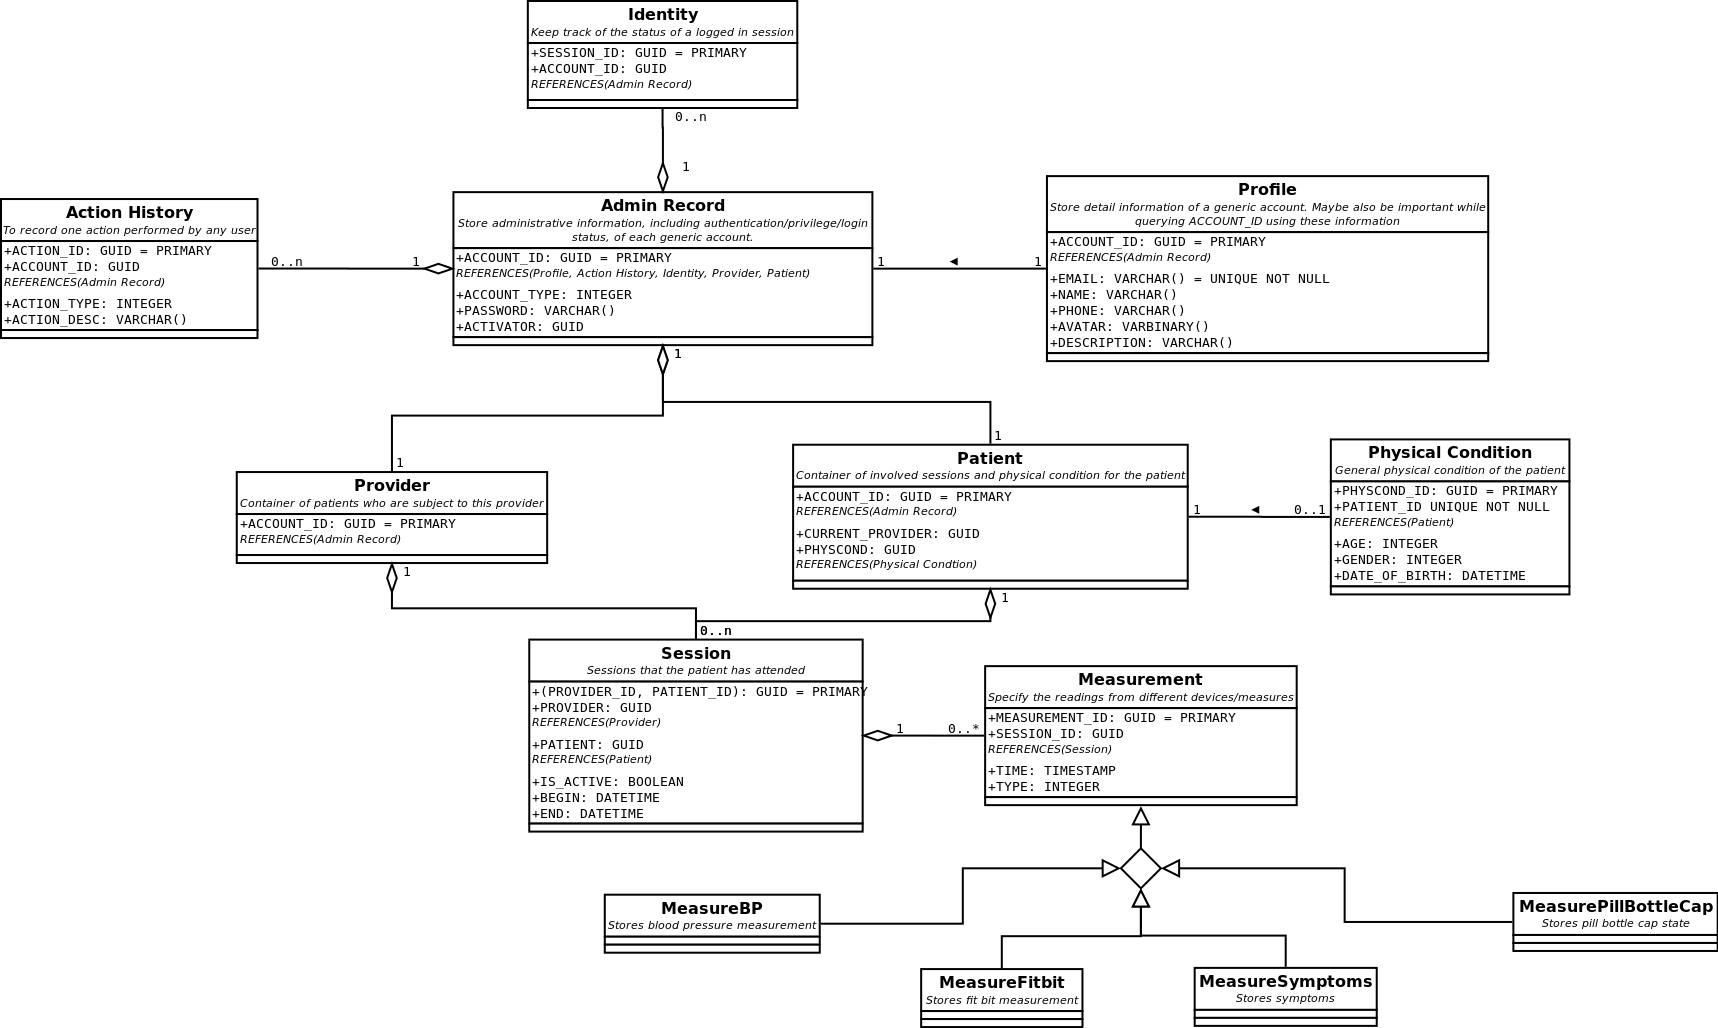
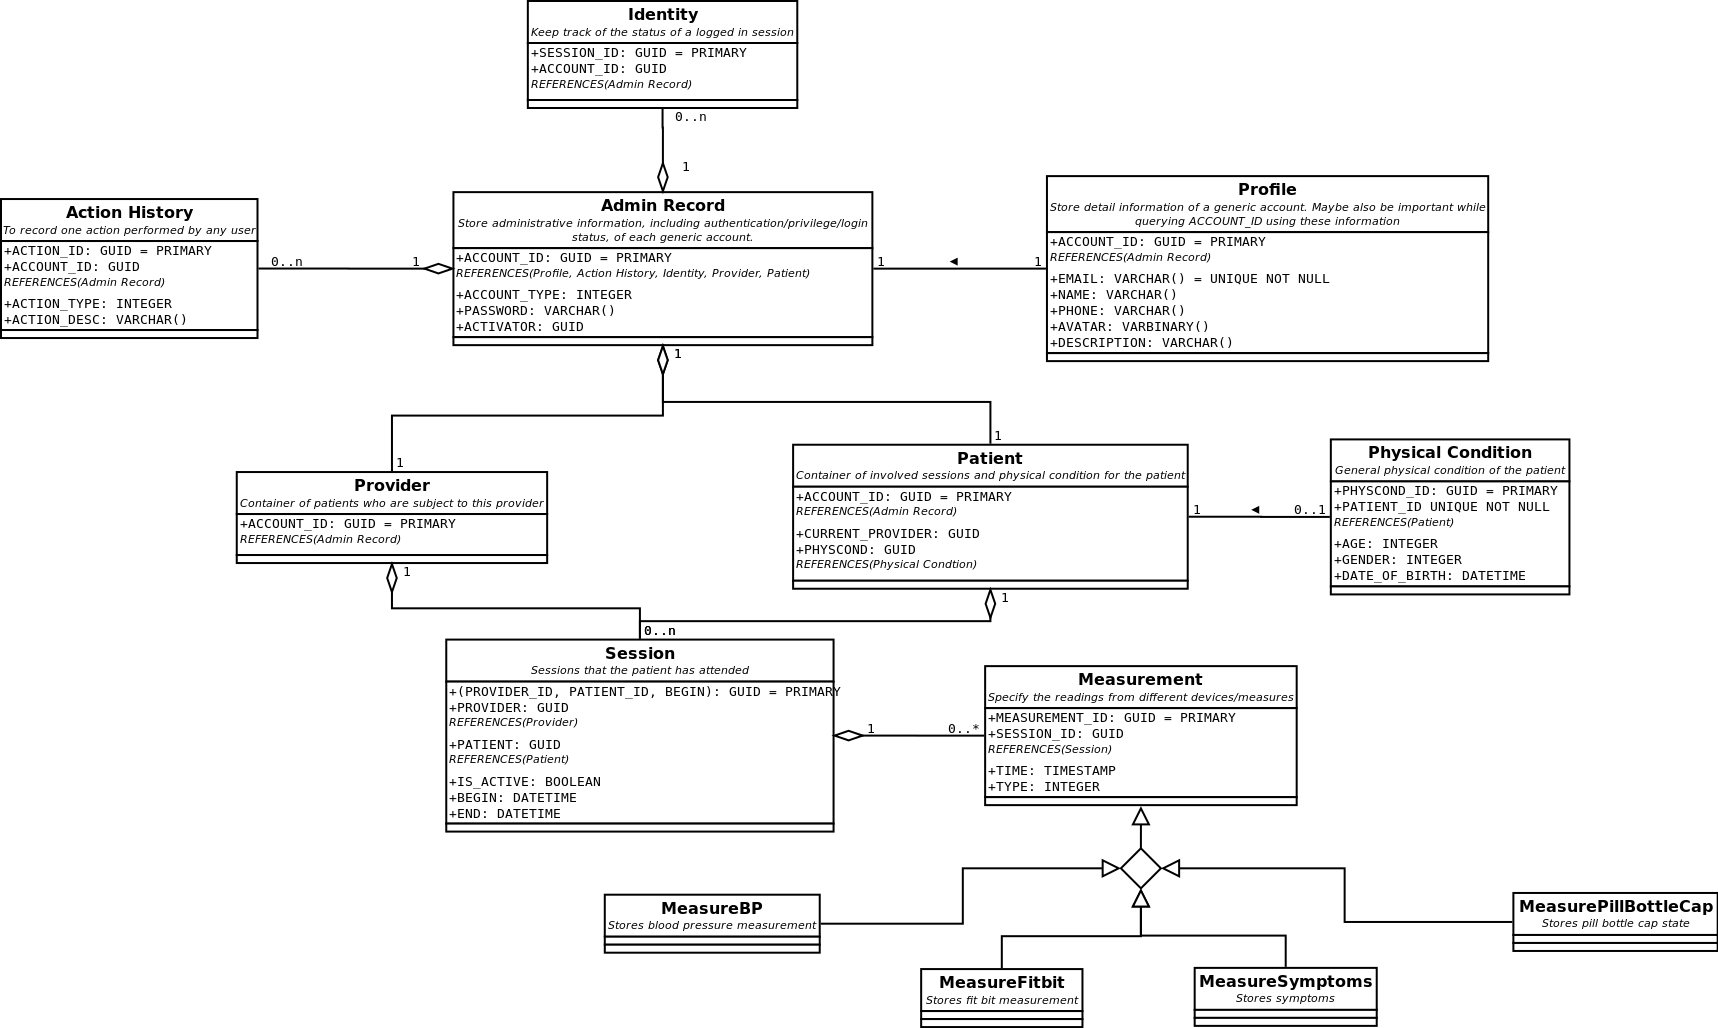
differentiate between adding patients and starting a session

Changed region(s): [[0.2468, 0.5914, 0.5244, 0.8093]]

diff --git a/medicom/server/providercontrol.js b/medicom/server/providercontrol.js
@@ -27,10 +27,65 @@ export function ProviderControl() {
                         return null;
                 }
                 var provider_id = identity.get_account_record().get_account_id();
+                if (G_DataModelContext.get_session_manager().has_session(provider_id, patient_id)) {
+                        err.log("The patient has been in your session list already.");
+                        return null;
+                }
                 var session = G_DataModelContext.get_session_manager().
                                         create_session(provider_id, patient_id);
                 if (session == null) {
                         err.log("Failed to create session. The ID provided: " + patient_id + " may be invalid");
+                        return null;
+                }
+                session.activate();
+                G_DataModelContext.get_session_manager().update_session(session);
+                return session;
+        }
+        
+        this.start_session_with = function(identity, patient_id, err) {
+                if (!this.__has_provider_identity(identity)) {
+                        err.log("Your identity is invalid");
+                        return null;
+                }
+                var provider_id = identity.get_account_record().get_account_id();
+                var session = G_DataModelContext.get_session_manager().
+                                        create_session(provider_id, patient_id);
+                if (session == null) {
+                        err.log("Failed to create session. The ID provided: " + patient_id + " may be invalid");
+                        return null;
+                }
+                session.activate();
+                G_DataModelContext.get_session_manager().update_session(session);
+                return session;
+        }
+        
+        this.end_session_with = function(identity, patient_id, err) {
+                if (!this.__has_provider_identity(identity)) {
+                        err.log("Your identity is invalid");
+                        return null;
+                }
+                var provider_id = identity.get_account_record().get_account_id();
+                var session = G_DataModelContext.get_session_manager().
+                                        get_sessions_by_ids(provider_id, patient_id);
+                if (session == null) {
+                        err.log("Failed to end session. The ID provided: " + patient_id + " may be invalid");
+                        return null;
+                }
+                session.deactivate();
+                G_DataModelContext.get_session_manager().update_session(session);
+                return session;
+        }
+        
+        this.recover_session_with = function(identity, patient_id, err) {
+                if (!this.__has_provider_identity(identity)) {
+                        err.log("Your identity is invalid");
+                        return null;
+                }
+                var provider_id = identity.get_account_record().get_account_id();
+                var session = G_DataModelContext.get_session_manager().
+                                        get_sessions_by_ids(provider_id, patient_id);
+                if (session == null) {
+                        err.log("Failed to recover session. The ID provided: " + patient_id + " may be invalid");
                         return null;
                 }
                 session.activate();

diff --git a/medicom/server/sessionmanager.js b/medicom/server/sessionmanager.js
@@ -14,6 +14,13 @@ export function ParticipatedSessionManager(mongodb, provider_mgr, patient_mgr) {
                 return result.count() > 0;
         }
         
+        this.has_session_strict = function(provider_id, patient_id, begin_time) {
+                var result = this.__sessions.find({__provider_id: provider_id, 
+                                                   __patient_id: patient_id,
+                                                   __start: begin_time});
+                return result.count() > 0;
+        }
+        
         this.create_session = function(provider_id, patient_id) {
                 if (!this.__patient_mgr.has_patient(patient_id) ||
                     !this.__provider_mgr.has_provider(provider_id)) {
